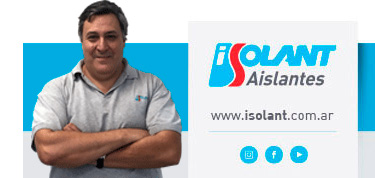
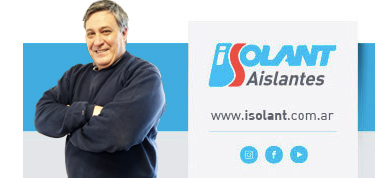
Add new signatures

diff --git a/marbelli.html b/marbelli.html
@@ -1,0 +1,60 @@
+<!DOCTYPE html PUBLIC "-//W3C//DTD XHTML 1.0 Transitional//EN" "http://www.w3.org/TR/xhtml1/DTD/xhtml1-transitional.dtd">
+
+<html xmlns="http://www.w3.org/1999/xhtml">
+<head>
+<meta http-equiv="Content-Type" content="text/html; charset=UTF-8" />
+
+<title>Isolant SA</title>
+<style type="text/css">
+body,td,th {	font-family: "Lucida Grande", "Lucida Sans Unicode", "Lucida Sans", "DejaVu Sans", 
+Verdana, sans-serif;	font-size: 11px;	color: #5c5b5f;}
+a:link {	color: #5c5b5f;	text-decoration: none;}
+a:visited {color: #5c5b5f;	text-decoration: none;}
+a:hover {	color: #5c5b5f;	text-decoration: none;}
+a:active {	color: #5c5b5f;	text-decoration: none;}
+</style>
+</head>
+<body>
+<table width="362" border="0" cellspacing="0" cellpadding="0">
+  <tr>
+    <td width="362" ><p><img src="https://firmas.isolant.com.ar/images/Marbeli.jpg" alt="" width="375" height="178" usemap="#Map4Map2Map" border="0" />
+      <map name="Map4Map2Map" id="Map4Map2Map">
+        <area shape="rect" coords="200,105,350,130" href="http://www.isolant.com.ar" />
+        <area shape="circle" coords="250,154,10" href="https://www.instagram.com/isolant.aislantes/" />
+        <area shape="circle" coords="275,155,10" href="https://www.facebook.com/Isolant.Aislantes" />
+        <area shape="circle" coords="300,155,10" href="https://www.youtube.com/channel/UCrYVrCoJOaHIxyim1-SHvtw" />
+        </map>
+    </p></td>
+  </tr>
+  <tr>
+    <td ><p>
+      </p>
+      </p>
+      <table width="363" border="0" cellspacing="0" cellpadding="1">
+        <tr>
+          <td align="right" valign="top">&nbsp;</td>
+          <td colspan="2" align="left" valign="top"><font color="#000" size="2"><strong>Marbely Peñaloza</strong></font><br/>
+          <font color="#000" size="2">Analista de Planificación y Control de la Producción</font></td>
+			
+        </tr>
+        <tr>
+          <td align="right" valign="top">&nbsp;</td>
+          <td align="right" valign="top">&nbsp;</td>
+          <td valign="top">&nbsp;</td>
+        </tr>
+        <tr>
+          <td width="13" align="right" valign="top">&nbsp;</td>
+          <td width="25" align="right" valign="top"><img src="https://firmas.isolant.com.ar/images/Mail.png" alt="Mail" width="18" height="18" style="display:block;"/></td>
+          <td width="206" valign="top"><a href="mailto:mpenaloza@isolant.com.ar">mpenaloza@isolant.com.ar</a></td>
+        </tr>
+        <tr>
+          <td align="right" valign="top">&nbsp;</td>
+          <td height="18" align="right" valign="top"><img src="https://firmas.isolant.com.ar/images/telefono.png" alt="Teléfono" width="18" height="18" style="display:block;"/></td>
+          <td valign="top">011.0230.444.0891</td>
+        </tr>
+    </table></td>
+  </tr>
+</table>
+<br />
+</body>
+</html>
